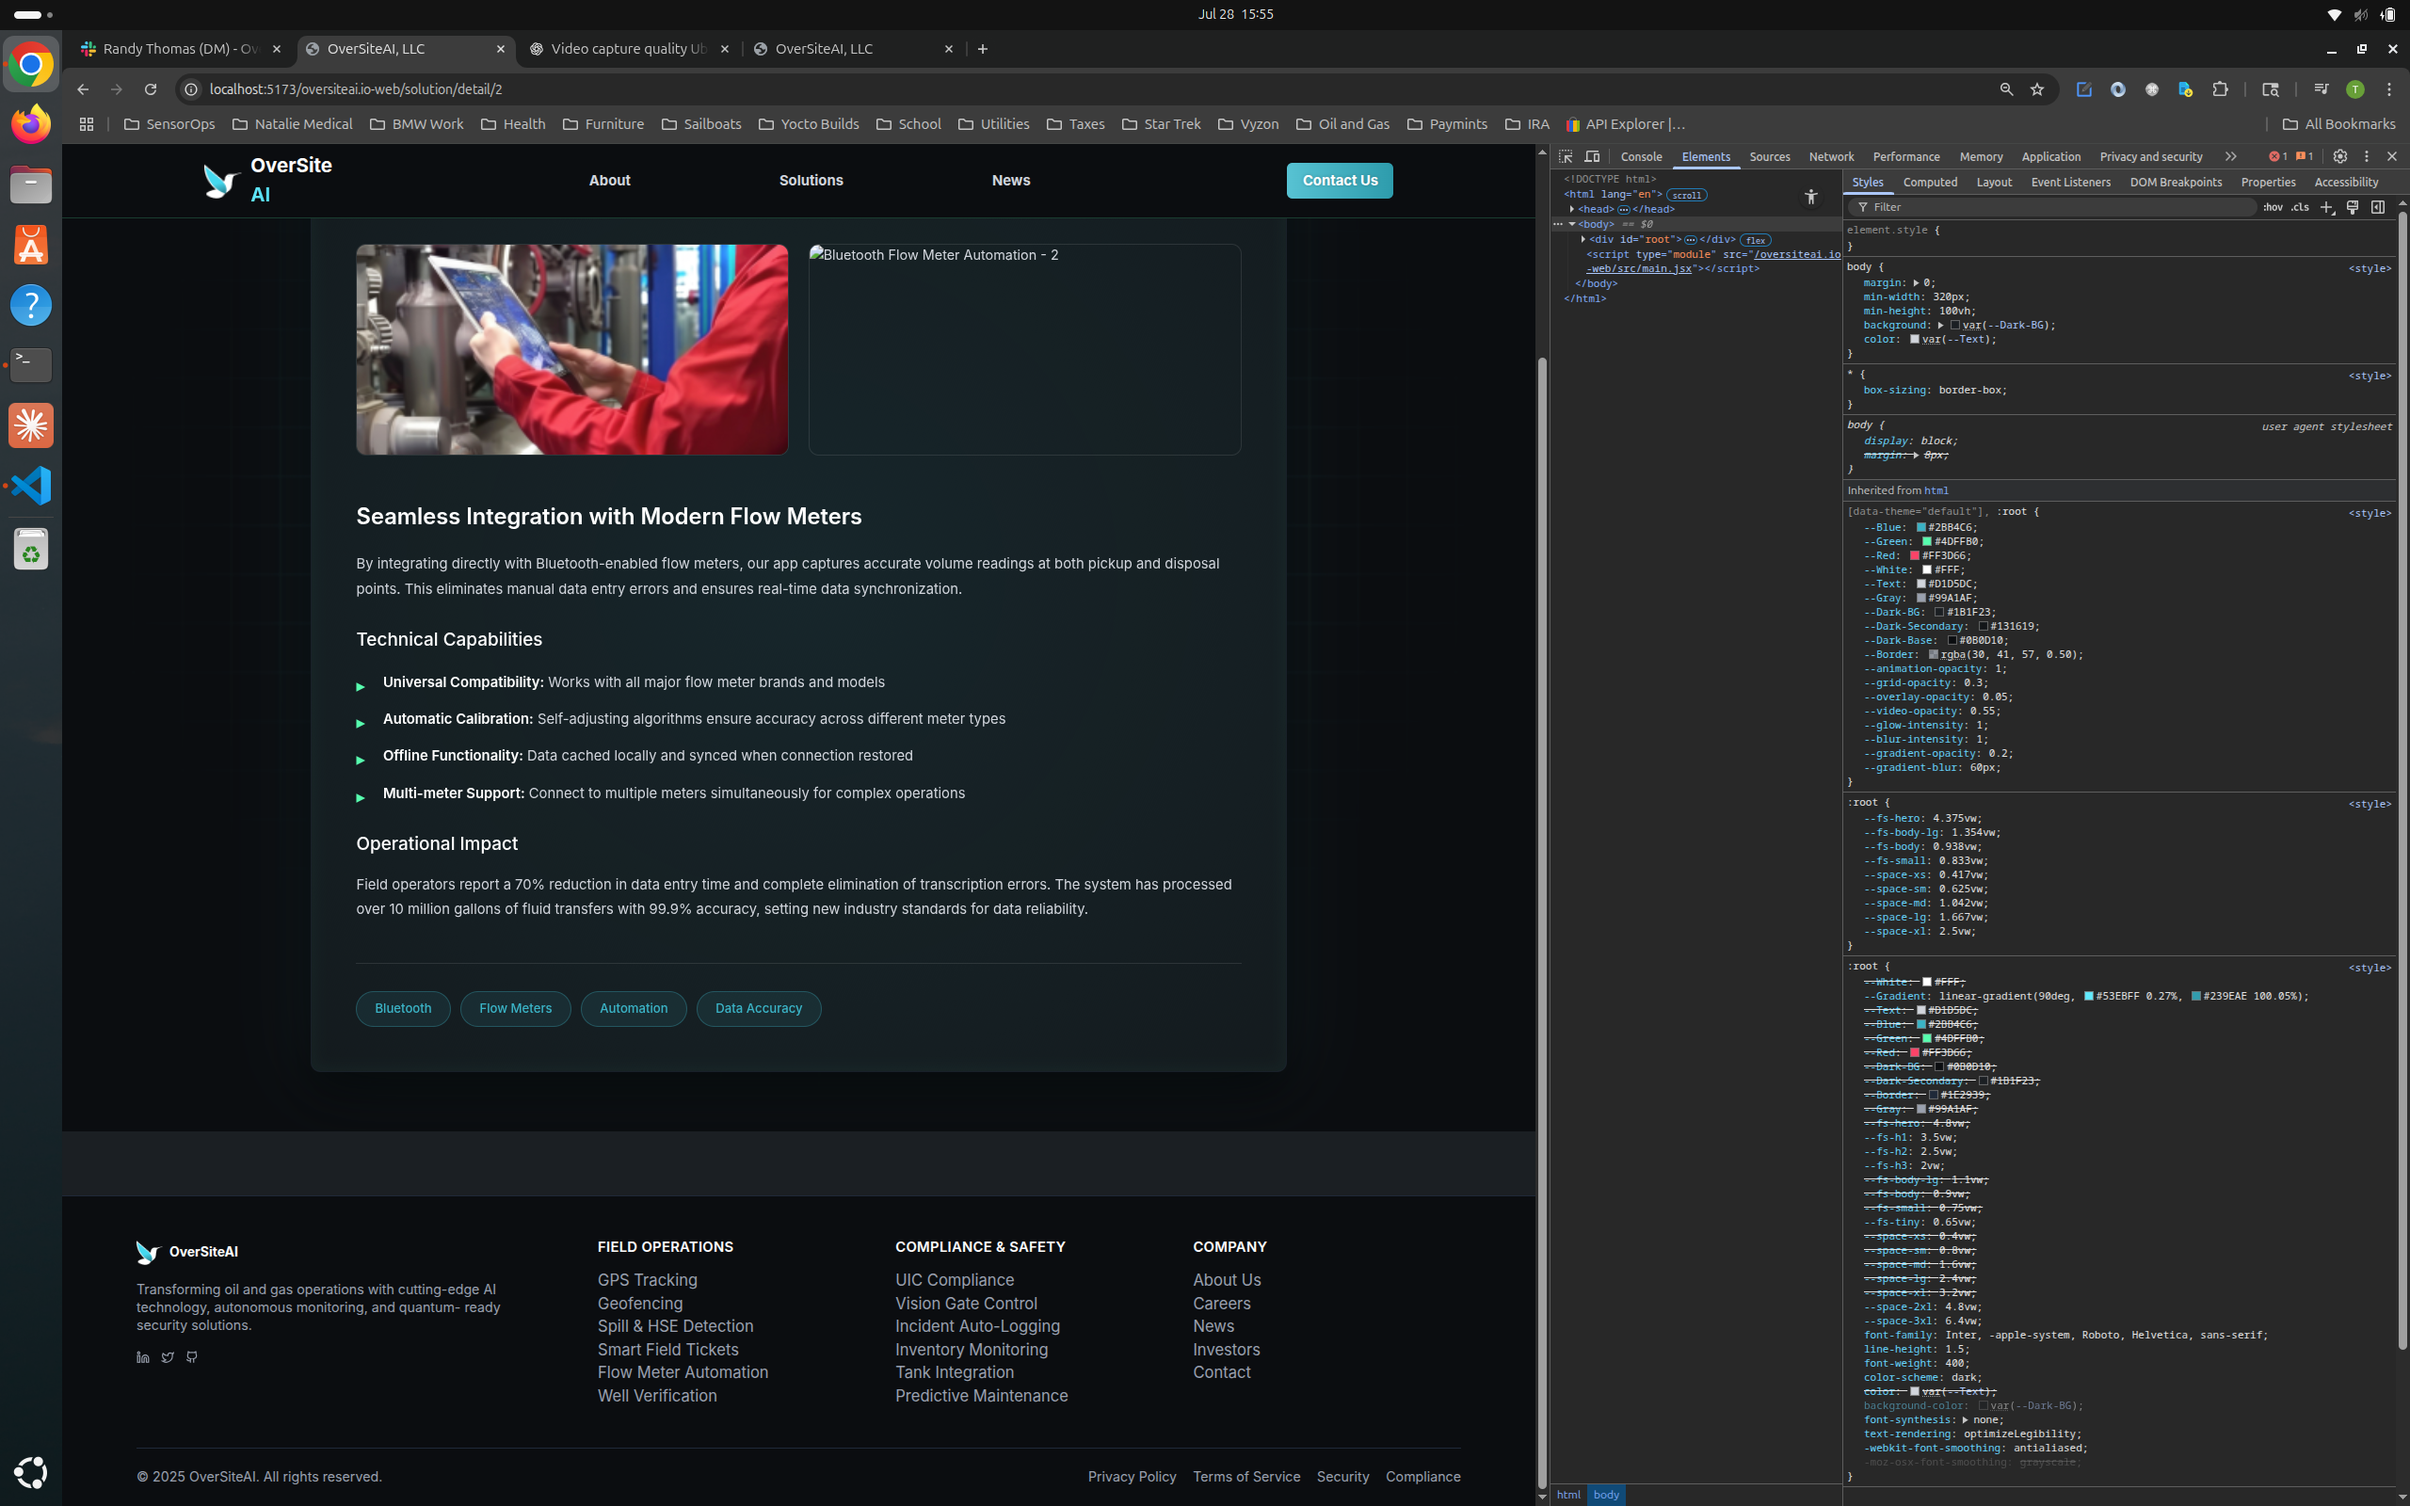
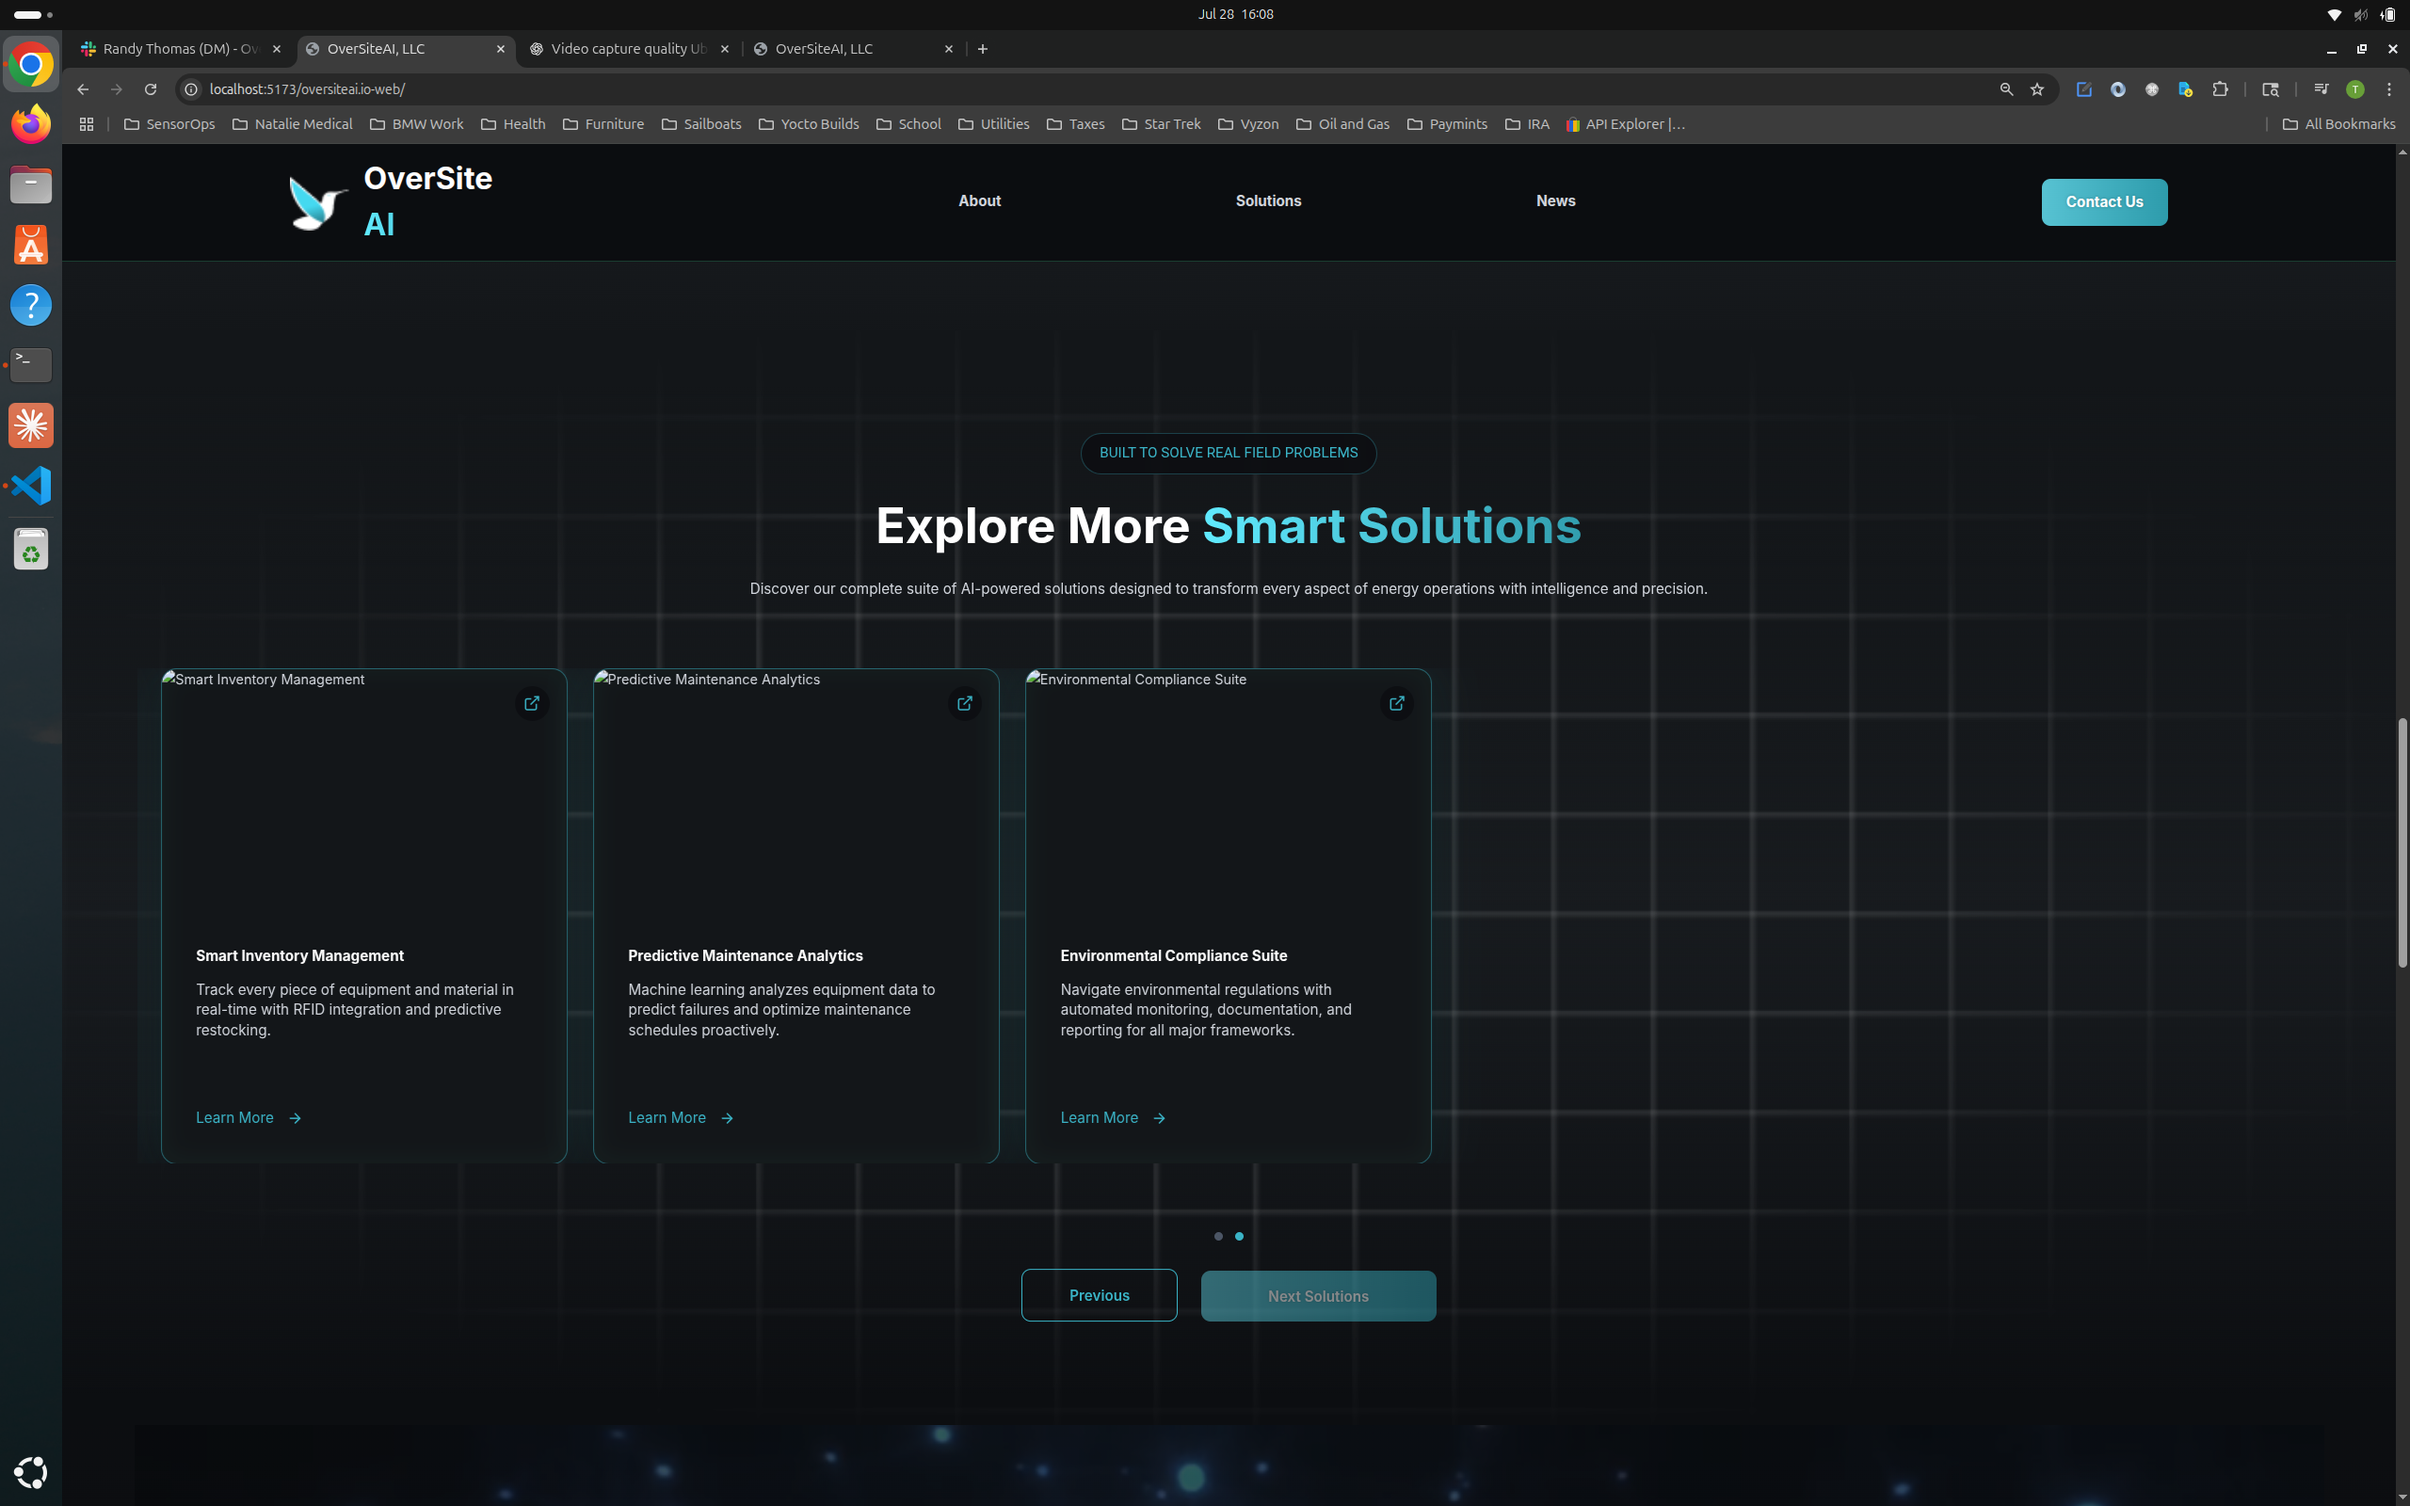
Update solution cards to dynamically fetch JSON data
- Add teaser field to all solution JSON files for homepage card descriptions
- Update SolutionsSection to fetch and display data from JSON files dynamically
- Fix solution card styling with visible borders and hover effects
- Fix carousel container padding to prevent border clipping
- Use placeholder images for solutions 6-8 until actual images are available

diff --git a/src/components/SolutionsSection.jsx b/src/components/SolutionsSection.jsx
@@ -15,7 +15,7 @@ const SolutionsSection = () => {
   const SOLUTIONS_PER_PAGE = isMobile ? 1 : 5;
   const minSwipeDistance = 50;
 
-  // Fallback data for the first 5 solutions
+  // Fallback data for the first 8 solutions
   const fallbackSolutions = [
     {
       id: 1,
@@ -27,43 +27,43 @@ const SolutionsSection = () => {
       id: 2,
       image: "/oversiteai.io-web/images/bluetooth.png",
       title: "Bluetooth Flow Meter Automation",
-      description: "By integrating directly with Bluetooth-enabled flow meters, the app captures accurate volume readings at both pickup and disposal points."
+      description: "Integrate directly with Bluetooth-enabled flow meters for accurate volume readings at pickup and disposal points."
     },
     {
       id: 3,
       image: "/oversiteai.io-web/images/realtime.png",
       title: "Real-Time Well Verification",
-      description: "The application cross-references each injection site against an up-to-date database of permitted wells."
+      description: "Cross-reference injection sites against permitted wells database for instant verification before fluid disposal."
     },
     {
       id: 4,
       image: "/oversiteai.io-web/images/automated_uic.png",
       title: "Automated UIC Generation",
-      description: "UIC documentation is automatically generated by combining flow data, GPS tracks, operator ID, and digital signature."
+      description: "Generate UIC documentation automatically by combining flow data, GPS tracks, operator ID, and digital signatures."
     },
     {
       id: 5,
       image: "/oversiteai.io-web/images/digital_custody_chain.png",
       title: "Digital Chain of Custody",
-      description: "Immutable audit logs record every step in the transportation and disposal chain — from fluid origin to well injection — including who handled it, when, where, and how."
+      description: "Immutable audit logs record every step from fluid origin to disposal, tracking who handled it, when, where, and how."
     },
     {
       id: 6,
-      image: "/oversiteai.io-web/images/geofence.png", // Placeholder - update when actual image available
+      image: "/oversiteai.io-web/images/inventory1.jpg",
       title: "Smart Inventory Management",
-      description: "Real-time tracking of equipment, materials, and consumables across all field locations."
+      description: "Track every piece of equipment and material in real-time with RFID integration and predictive restocking."
     },
     {
       id: 7,
-      image: "/oversiteai.io-web/images/realtime.png", // Placeholder - update when actual image available
+      image: "/oversiteai.io-web/images/maintenance1.jpg",
       title: "Predictive Maintenance Analytics",
-      description: "AI-driven maintenance scheduling that prevents failures before they occur."
+      description: "Machine learning analyzes equipment data to predict failures and optimize maintenance schedules proactively."
     },
     {
       id: 8,
-      image: "/oversiteai.io-web/images/automated_uic.png", // Placeholder - update when actual image available
+      image: "/oversiteai.io-web/images/compliance1.jpg",
       title: "Environmental Compliance Suite",
-      description: "Automated monitoring and reporting for all environmental regulations and permits."
+      description: "Navigate environmental regulations with automated monitoring, documentation, and reporting for all major frameworks."
     }
   ];
 
@@ -83,8 +83,8 @@ const SolutionsSection = () => {
             const solutionData = {
               id: data.id || id,
               title: data.title || fallbackSolutions[id - 1]?.title || `Solution ${id}`,
-              description: data.subtitle || fallbackSolutions[id - 1]?.description || '',
-              image: fallbackSolutions[id - 1]?.image || `/oversiteai.io-web/images/solution${id}.png`
+              description: data.teaser || data.subtitle || fallbackSolutions[id - 1]?.description || '',
+              image: data.image || fallbackSolutions[id - 1]?.image || `/oversiteai.io-web/images/solution${id}.png`
             };
             loadedSolutions.push(solutionData);
             consecutiveFailures = 0;

diff --git a/src/App.css b/src/App.css
@@ -1612,6 +1612,7 @@ main {
   position: relative;
   overflow: hidden;
   margin-bottom: 2.917vw;
+  padding: 0.5vw 0; /* Add vertical padding for borders and shadows */
   touch-action: pan-y; /* Allow vertical scroll but capture horizontal swipes */
 }
 
@@ -1623,7 +1624,7 @@ main {
 .solutions-page {
   min-width: 100%;
   flex-shrink: 0;
-  padding: 0 1vw; /* Add horizontal padding to prevent edge cutoff */
+  padding: 0.2vw 1vw; /* Add padding to prevent border cutoff */
   box-sizing: border-box;
 }
 
@@ -1636,7 +1637,7 @@ main {
 
 .solution-card {
   border-radius: 0.664vw;
-  border: 1px solid var(--Border);
+  border: 1px solid rgba(43, 180, 198, 0.3);
   background: var(--Dark-Secondary);
   overflow: hidden;
   width: 100%; /* Take full width of grid cell */
@@ -1648,7 +1649,7 @@ main {
 
 .solution-card:hover {
   box-shadow: 0 0.5vw 1.5vw rgba(78, 195, 211, 0.4);
-  border-color: rgba(78, 195, 211, 0.5);
+  border-color: rgba(78, 195, 211, 0.9);
 }
 
 /* Placeholder for empty grid cells */
